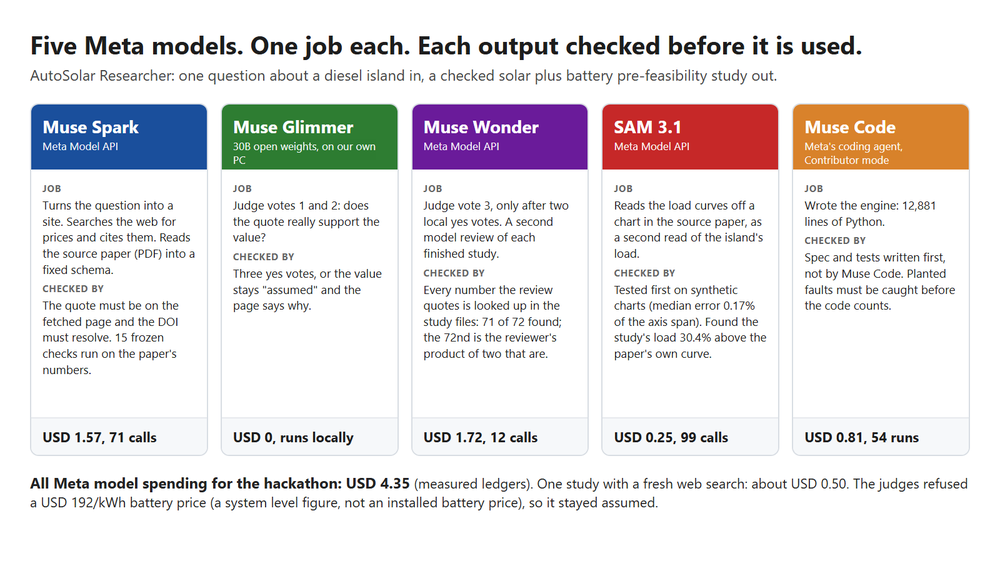
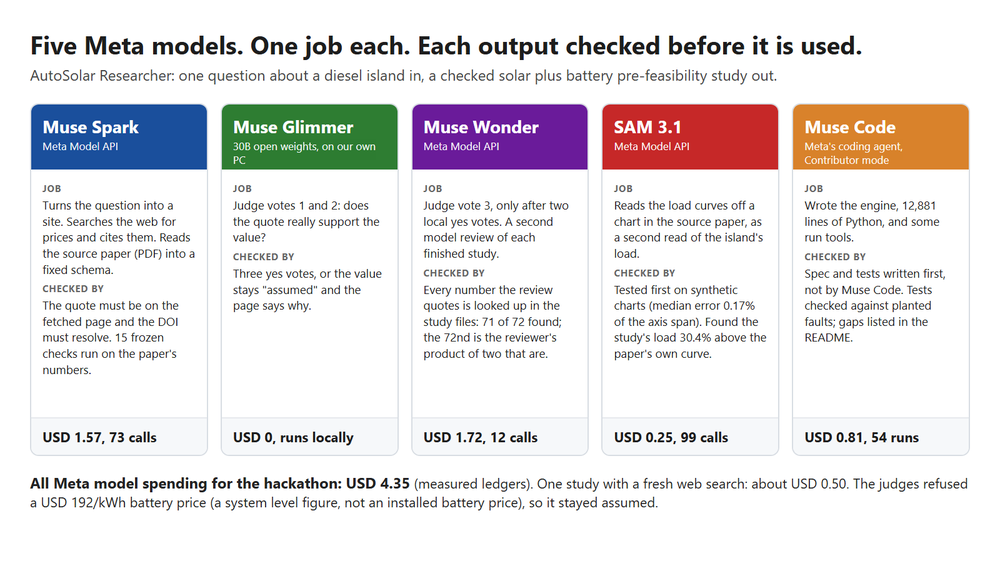
README and models card after outside audit round 2 (agy Argon 4 high, opencode Muse xhigh, DeepSeek max, GLM max, Beam max, Iceman): the load is the only input that puts our design more than 1% above the cheapest one, other inputs can change the cheapest design (20% cheaper diesel: 5,000 kWp and 11,

Changed region(s): [[0.806, 0.3925, 0.961, 0.6039], [0.899, 0.3925, 0.93, 0.4227]]

diff --git a/README.md b/README.md
@@ -7,7 +7,8 @@ second model's review, and a plain list of what the study does not cover.
 
 Indonesia's state utility PLN plans to replace 2,396 diesel generators at 741 sites with solar and batteries (press,
 [Bloomberg Technoz](https://www.bloombergtechnoz.com/detail-news/105965/pln-bakal-ganti-2-396-pltd-dengan-plts-3-21-gwp-bess-9-03-gwh)).
-Each site needs a first study like this before anyone spends money on a detailed one. It is a first screen, not
+Each site needs a first study like this before anyone spends money on a detailed one. Today the tool costs one
+island, Karimunjawa, the only one with an hourly load, and screens 11. It is a first screen, not
 a replacement for a detailed design in PVsyst or HOMER: each latest study page says which inputs to confirm first
 and gives the hourly series behind the answer, so an engineer can set up the same case in such a tool and compare.
 
@@ -67,26 +68,30 @@ The short version (computed unless labelled):
   more than diesel only; a smaller design (1,500 kWp and 1,000 kWh) still beats diesel only, 0.336 against 0.354
   USD/kWh, 5.1% less. Our own read of the paper's load chart puts the load about 30% above the paper's December
   2018 curve; at the load that curve implies, solar plus battery is still 33.7% cheaper (post hoc).
-- What to measure first: only the load moves the best plant enough to matter. With 20% less load a smaller plant
-  is best and our design would cost 8.8% more than it; for every other input, moved 20% either way, our design is
-  at most 0.4% above the best design at that value (the page draws the line at 1%, assumed). So the metered load
-  comes before any price.
-- What the checks turned down: a battery price whose quote does not support it (192 USD/kWh), a battery upkeep
+- What to measure first: the load. With 20% less load a smaller plant is best (6,000 kWp and 15,000 kWh) and our
+  design would cost 8.8% more than it. Other inputs, moved 20% either way, can change the cheapest design too
+  (with 20% cheaper diesel it is 5,000 kWp and 11,000 kWh), but ours then costs at most 0.4% more than it, because
+  the cost changes little between those designs (the page draws the line at 1%, assumed; computed). So the metered
+  load comes before any price, and the plant size stays provisional until the load is measured.
+- What the checks turned down: a battery price of 192 USD/kWh (the number is in its quote, so the script let it
+  through; the judges said no, because the quote gives a whole storage system's cost, not the battery price), a battery upkeep
   cost outside the allowed range (50 USD/kWh/yr against 0.5 to 30), and any site more than 30 km from Karimunjawa, a fixed cut-off (assumed) (Bawean, 247 km away: "No
   study").
 - What a small error does (post hoc twin test, "Twin test" under Checks): 10 cited values were given to the
   checker again with the number moved by 1%, 10% and 30%, down and up. The script stopped all 60 wrong copies, and the local
   judge alone said no to all 60 too, even at 1%. It also turned down 2 of the 10 true values, on how the quote
-  describes the input, not on the number (computed).
+  describes the input, not on the number (computed). Here the quote still holds the true number, so a moved number
+  is easy to spot; the 192 USD/kWh case above is the kind only the judges catch.
 - Meta models, each with a fixed job, and a check on every output before it is used: Muse Spark turns the question
   into a site, searches the web for cost inputs and reads the paper; Muse Glimmer (open weights, on our own PC)
   and Muse Wonder judge each cited value; Muse Wonder also reviews the report; SAM 3.1 reads the paper's load
   chart; Muse Code wrote the engine to specs and tests written first. All Meta model spending: USD 4.35
   (measured ledgers).
 - Check us without an API key: `uv sync`, then `uv run pytest` (1,902 tests, no network), then
-  `uv run python tools/twin_test.py --out runs/twin_check` (the twin test without the judge, no network), and
+  `uv run python tools/twin_test.py --out runs/twin_check` (the quote check half of the twin test: no model call, no network), and
   open `docs/site/index.html`. A fresh clone passed every test (measured, `docs/smoke/CLONE_TEST.md`), and a
-  re-run from an empty folder gave the same run hash (measured, `docs/smoke/FRESH_RERUN.md`).
+  re-run into an empty folder, reusing the saved weather and web search, gave the same run hash (measured,
+  `docs/smoke/FRESH_RERUN.md`).
 
 What it cost (measured ledgers): Muse Code wrote the engine, all 12,881 lines of `autosolar/` (25 files, `wc -l`),
 for USD 0.81. There are two reasons it was that cheap. It ran in Contributor mode, which Meta prices lower in
@@ -95,7 +100,8 @@ exchange for permission to use what is sent to train future Meta models (docs, M
 have cost about USD 7.40 at the same prices (computed). It did not write the specs or the tests: each task's spec and acceptance tests were written first,
 and Muse Code wrote code until they passed (the git history shows the order). Specs, tests, the other run tools and the 7 hand-picked values were written with a general AI coding assistant (not a Meta model), directed and checked by Havid. One full study, with a fresh web
 search for its prices, costs about USD 0.50 in Meta model calls (the example study: USD 0.43, almost all of it the
-web search, plus USD 0.085 for the two-model re-check; a run that reuses a search costs much less). All Meta model spending for the whole hackathon,
+web search, plus USD 0.085 for the two-model re-check; a run that reuses a search costs much less). The paper
+check, load check and second model review add about USD 0.25 to 0.35 (measured). All Meta model spending for the whole hackathon,
 smoke tests, chart reader tests and reviews included: USD 4.35.
 
 ## Details for judges
@@ -113,7 +119,7 @@ smoke tests, chart reader tests and reviews included: USD 4.35.
   is an exact re-cost within the model, not a guess between points: a design's fuel
   use does not depend on the price, and at 20% below and above the study price it gives the same numbers as
   the sensitivity table.
-- Confirm these first (latest study pages): the 9 inputs ranked by how far each moves the cost of the main design,
+- Confirm these first (latest study pages): the 9 main inputs ranked by how far each moves the cost of the main design,
   each with the field data to ask for (in the example the discount rate comes first). Next to them, public field
   figures from the press, each with its quote: in 2017, less than a year after 24 hour power began (May 2016, same
   article), the island's plant produced 8,000 kWh a day on 4,000 L of diesel (press, Kompas; it may be the main
@@ -133,16 +139,16 @@ smoke tests, chart reader tests and reviews included: USD 4.35.
   moved 20% down and up, the page shows the least cost design at that value and how much more the main design
   costs than it (computed from the study's own sensitivity rows; no new simulation). A wide cost swing does not
   mean the choice changes. In the example only the load moves it past the page's 1% line (assumed): with 20% less
-  load the best design is 6,000 kWp and 15,000 kWh, and the main design costs 8.8% more than it. For every other
-  input the best design at that value differs a little, but the main design is at most 0.4% above it; those
-  inputs move the price far more than the plan (computed). So the metered load comes before any price.
+  load the best design is 6,000 kWp and 15,000 kWh, and the main design costs 8.8% more than it. For other inputs
+  the best design at that value can differ a lot (with 20% cheaper diesel it is 5,000 kWp and 11,000 kWh), but the
+  cost changes little between those designs, so the main design is at most 0.4% above it (computed). So the metered load comes before any price.
 - Which renewable fits this site (post hoc, `docs/specs/T23_resource_screen.md`): sun 4.05 kWh/kWp a day (Global
   Solar Atlas, a Solargis model), the World Bank's favorable middle range; wind 4.44 m/s and 91 W/m2 at 50 m (NASA
   POWER, hourly 2016 to 2024, computed), class 1 (Poor) on the NREL scale, though a coarse grid can miss local
   wind; 1 river and 2 streams mapped within 10 km, nearby islands included (OpenStreetMap); the nearest town on the
   map is 78 km away. Only solar, battery and
   diesel are costed. The same section has a sanity check of our PV model (one site, post hoc, not a validation):
-  +1.4% against PVGIS and -3.3% against Global Solar Atlas (Solargis), computed. No Meta model call (the API ledger stayed at 179 lines,
+  +1.4% against PVGIS and -3.3% against Global Solar Atlas (Solargis), computed. No Meta model call (the API ledger stayed at 179 lines during the run,
   measured).
 - Eleven diesel islands at once (post hoc, `docs/specs/T24_island_screen.md`, page `docs/site/islands.html`): the
   same screen for 11 islands, each named in a news article as having a diesel plant (PLTD). The tool fetches each
@@ -172,8 +178,9 @@ smoke tests, chart reader tests and reviews included: USD 4.35.
   diesel only, 33.7% less (computed). Before it reports, the tool must give back the study's own numbers; the
   rules for this re-run were committed before it ran (`docs/smoke/T20_T21_SMOKE_RULES.md`).
 - Built during the event: all code in `autosolar/`, `tools/` and `tests/`, every spec in `docs/specs/`, every study
-  and the static site. `PRE_EVENT.md` lists what was prepared before kickoff (plan, paper audit, weather cross check,
-  Glimmer speed test), with commit times.
+  and the static site. `PRE_EVENT.md` lists what was prepared before kickoff (plan, literature sweep, hand audit of the
+  paper, the 15 paper check rules as text, the second test paper, a weather cross check, satellite test images,
+  Glimmer speed test), with commit times. The code that runs the paper checks was written during the event.
 - Without cloning: the first seven pictures below are from the example study, the eighth is the island screen and
   the last shows the five Meta models. With a
   clone, open `docs/site/index.html`.
@@ -188,7 +195,7 @@ smoke tests, chart reader tests and reviews included: USD 4.35.
 
 ![Confirm these first: inputs ranked by how far they move the cost, with the field data to ask for](docs/img/confirm.png)
 
-![Which inputs would change the design: only the load changes the plan; the others move the price](docs/img/design_change.png)
+![Which inputs would change the design: only the load puts our design more than 1% above the cheapest one](docs/img/design_change.png)
 
 ![Which renewable fits this site, and our PV model against two outside models](docs/img/resources.png)
 
@@ -207,7 +214,8 @@ smoke tests, chart reader tests and reviews included: USD 4.35.
 | Muse Code (Meta's coding agent, Contributor mode, model muse-spark-1.3-contributor) | Wrote the engine (`autosolar/`) and some run tools from short specs | Build time | Each spec and its acceptance tests are written before the code, and the tests are checked to catch planted faults (last four tasks, final counts: 14 of 14, 15 of 16, 9 of 9 and 17 of 17; in the first two, one test was added after the code; T25's one remaining change keeps a negative zero, which the spec does not ask to remove and which prints the same; computed) |
 
 - Checks: 1,902 unit tests with no network, and a fresh clone passes all of them (measured, `docs/smoke/CLONE_TEST.md`).
-  Re-run in an empty folder, the example study gives the same run hash and byte-identical tables (measured,
+  Re-run into an empty folder (weather and web search read from disk), the example study gives the same run hash
+  and byte-identical tables (measured,
   `docs/smoke/FRESH_RERUN.md`).
   Eleven gates run on every study (G3 runs once for each of the 4 weather sources). What the study cannot source stays
   "assumed", and the page says so.
@@ -257,8 +265,8 @@ reliability study; see "What it does not cover") and cycles the battery 249 time
 What this means for PLN: solar plus battery pays if the batteries and inverters can carry the grid on their own.
 That is one engineering question the study cannot answer: can the island grid run on inverters alone for 7,302
 hours a year (computed), or must a diesel unit always spin? If one must, the main design costs more than diesel
-only (0.414 against 0.354 USD/kWh), the best design shrinks to 1,500 kWp, and with the larger diesel units it is
-only 2.4% below diesel only. The load check adds a second caution: if the island uses less power than Table 6
+only (0.414 against 0.354 USD/kWh), the best design shrinks to 1,500 kWp (with the larger diesel units, to 750 kWp and no battery,
+only 2.4% below diesel only). The load check adds a second caution: if the island uses less power than Table 6
 says, the right design is smaller (5,750 kWp and 15,000 kWh at the load the chart implies), but it still costs
 a third less than diesel only (post hoc, computed).
 
@@ -272,7 +280,7 @@ loop); that is our reserve case. St. Eustatius switched its diesels off for up t
 quoted in a Niue study). No source we read shows a full day on inverters alone, so the question stays open.
 The main design's battery inverter is 4,750 kW (computed), 3.3 times the 1,422 kW peak load (paper; ratio
 computed), so it passes the rough size test of the Pantelleria cases if split into a few large units
-(inferred). Whether it can hold the grid through a whole day and through faults needs a grid study.
+(inferred; a size test only: it must also take up to 4,555 kW of charging, computed). Whether it can hold the grid through a whole day and through faults needs a grid study.
 
 ## Second run with curated inputs (post hoc, study 107477f112e5d92c)
 
@@ -328,7 +336,7 @@ each value are kept with the build files.
 | S2 weather | CAMS, NASA POWER, PVGIS-ERA5 and Global Solar Atlas; the spread between them becomes a range | |
 | S3 inputs | web search with citations for 7 cost inputs; each quote must be found in the fetched source, the DOI must resolve, and the judges must say the quote supports the value 3 times in a row | Muse Spark web search; Muse Glimmer (open weights, local) votes 1 and 2, Muse Wonder vote 3 |
 | S4 to S6 | pvlib PV model, hourly dispatch with diesel minimum load, LCOE two ways, a grid of 925 designs, sensitivity and range tables | |
-| S7 paper check | Muse Spark reads the whole PDF and returns its numbers as JSON constrained by a schema; scripts keep a number only if its quote is in the PDF text, then run 15 frozen checks | Muse Spark native PDF input and structured output |
+| S7 paper check | Muse Spark reads the whole PDF and returns its numbers as JSON constrained by a schema; scripts keep a number only if its quote is in the PDF text, then run 15 frozen checks (rules written before kickoff, `PRE_EVENT.md`; code written during the event) | Muse Spark native PDF input and structured output |
 | S7b load check | SAM 3.1 finds each load curve in a chart of the same paper, Muse Spark reads the axis labels, and a script compares the read curves with the load the study uses | SAM 3.1, Muse Spark |
 | S8 report | Markdown, JSON and a static HTML page with charts; every number in the text must appear in the report data | |
 | S9 review | a second model lists what it would question and where the report answers it | Muse Wonder |
@@ -550,7 +558,7 @@ a utility price.
 ```
 uv sync
 uv run pytest                     # 1,902 tests, no network
-uv run python tools/twin_test.py --out runs/twin_check   # the twin test without the judge, no network
+uv run python tools/twin_test.py --out runs/twin_check   # quote check half of the twin test: no model call, no network
 AUTOSOLAR_ENV_FILE=path/to/.env AUTOSOLAR_CAMS_EMAIL=<address registered at soda-pro.com> \
   uv run python tools/ask.py "Is solar plus battery worth it for Karimunjawa? The island runs on diesel."
 uv run python tools/paper_check.py <paper.pdf> --study runs/studies/<hash>
